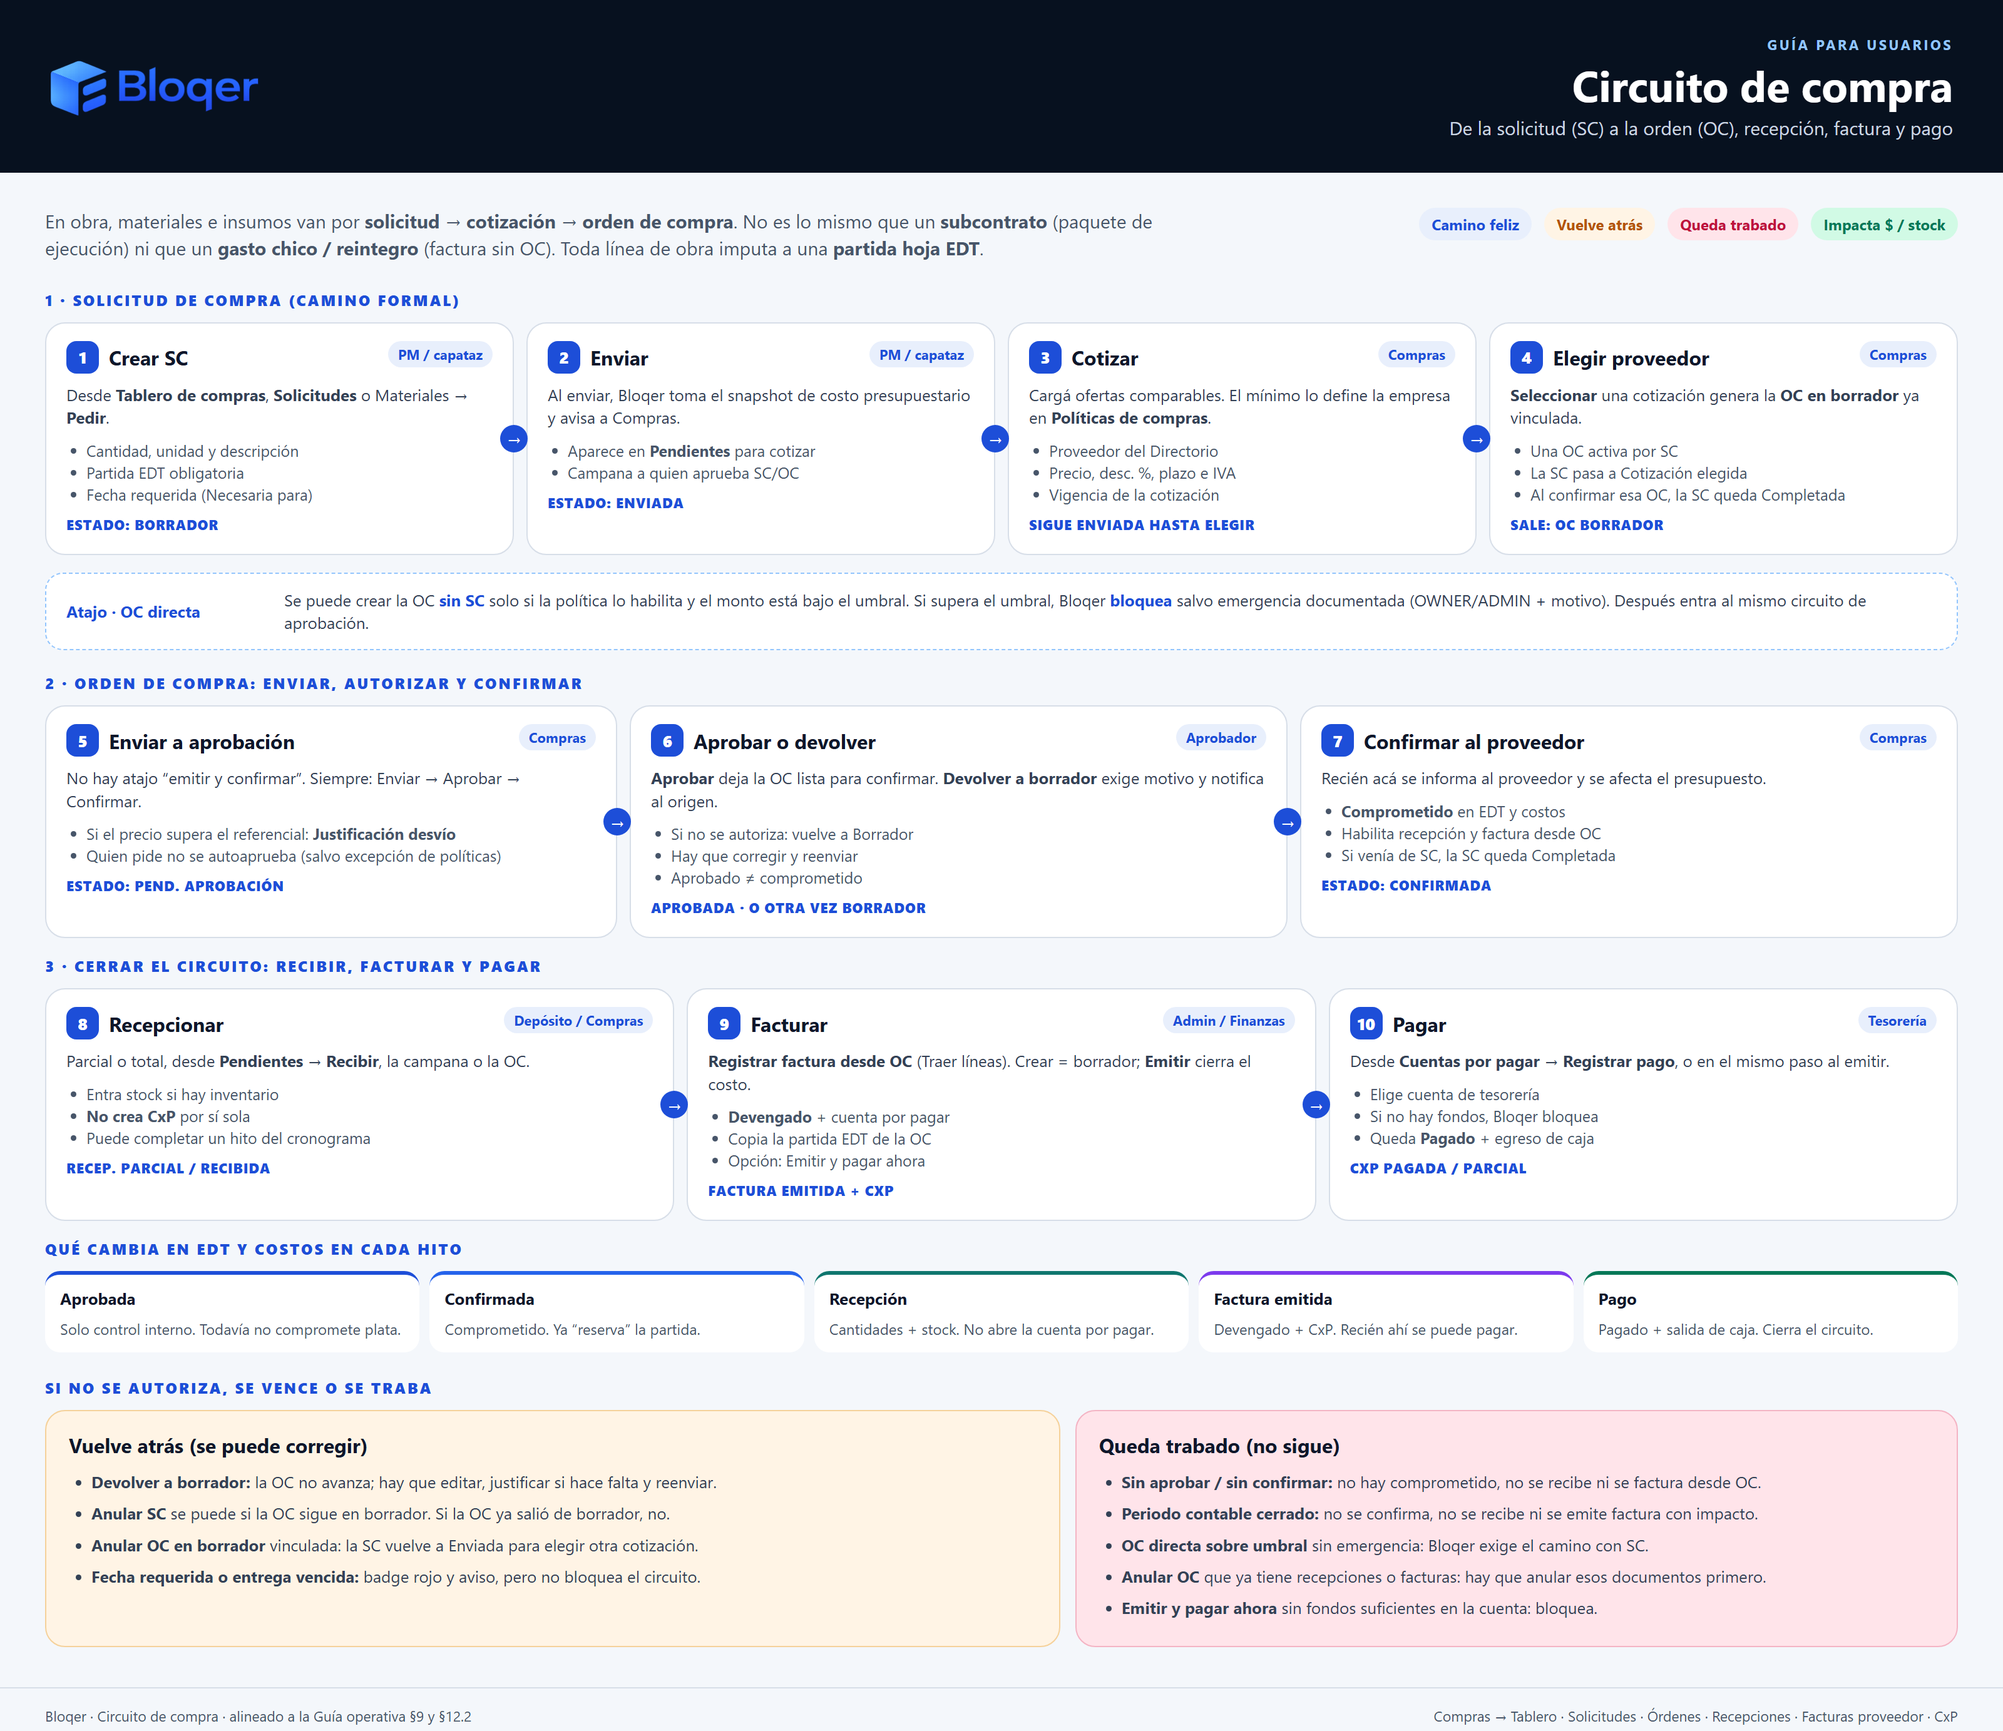
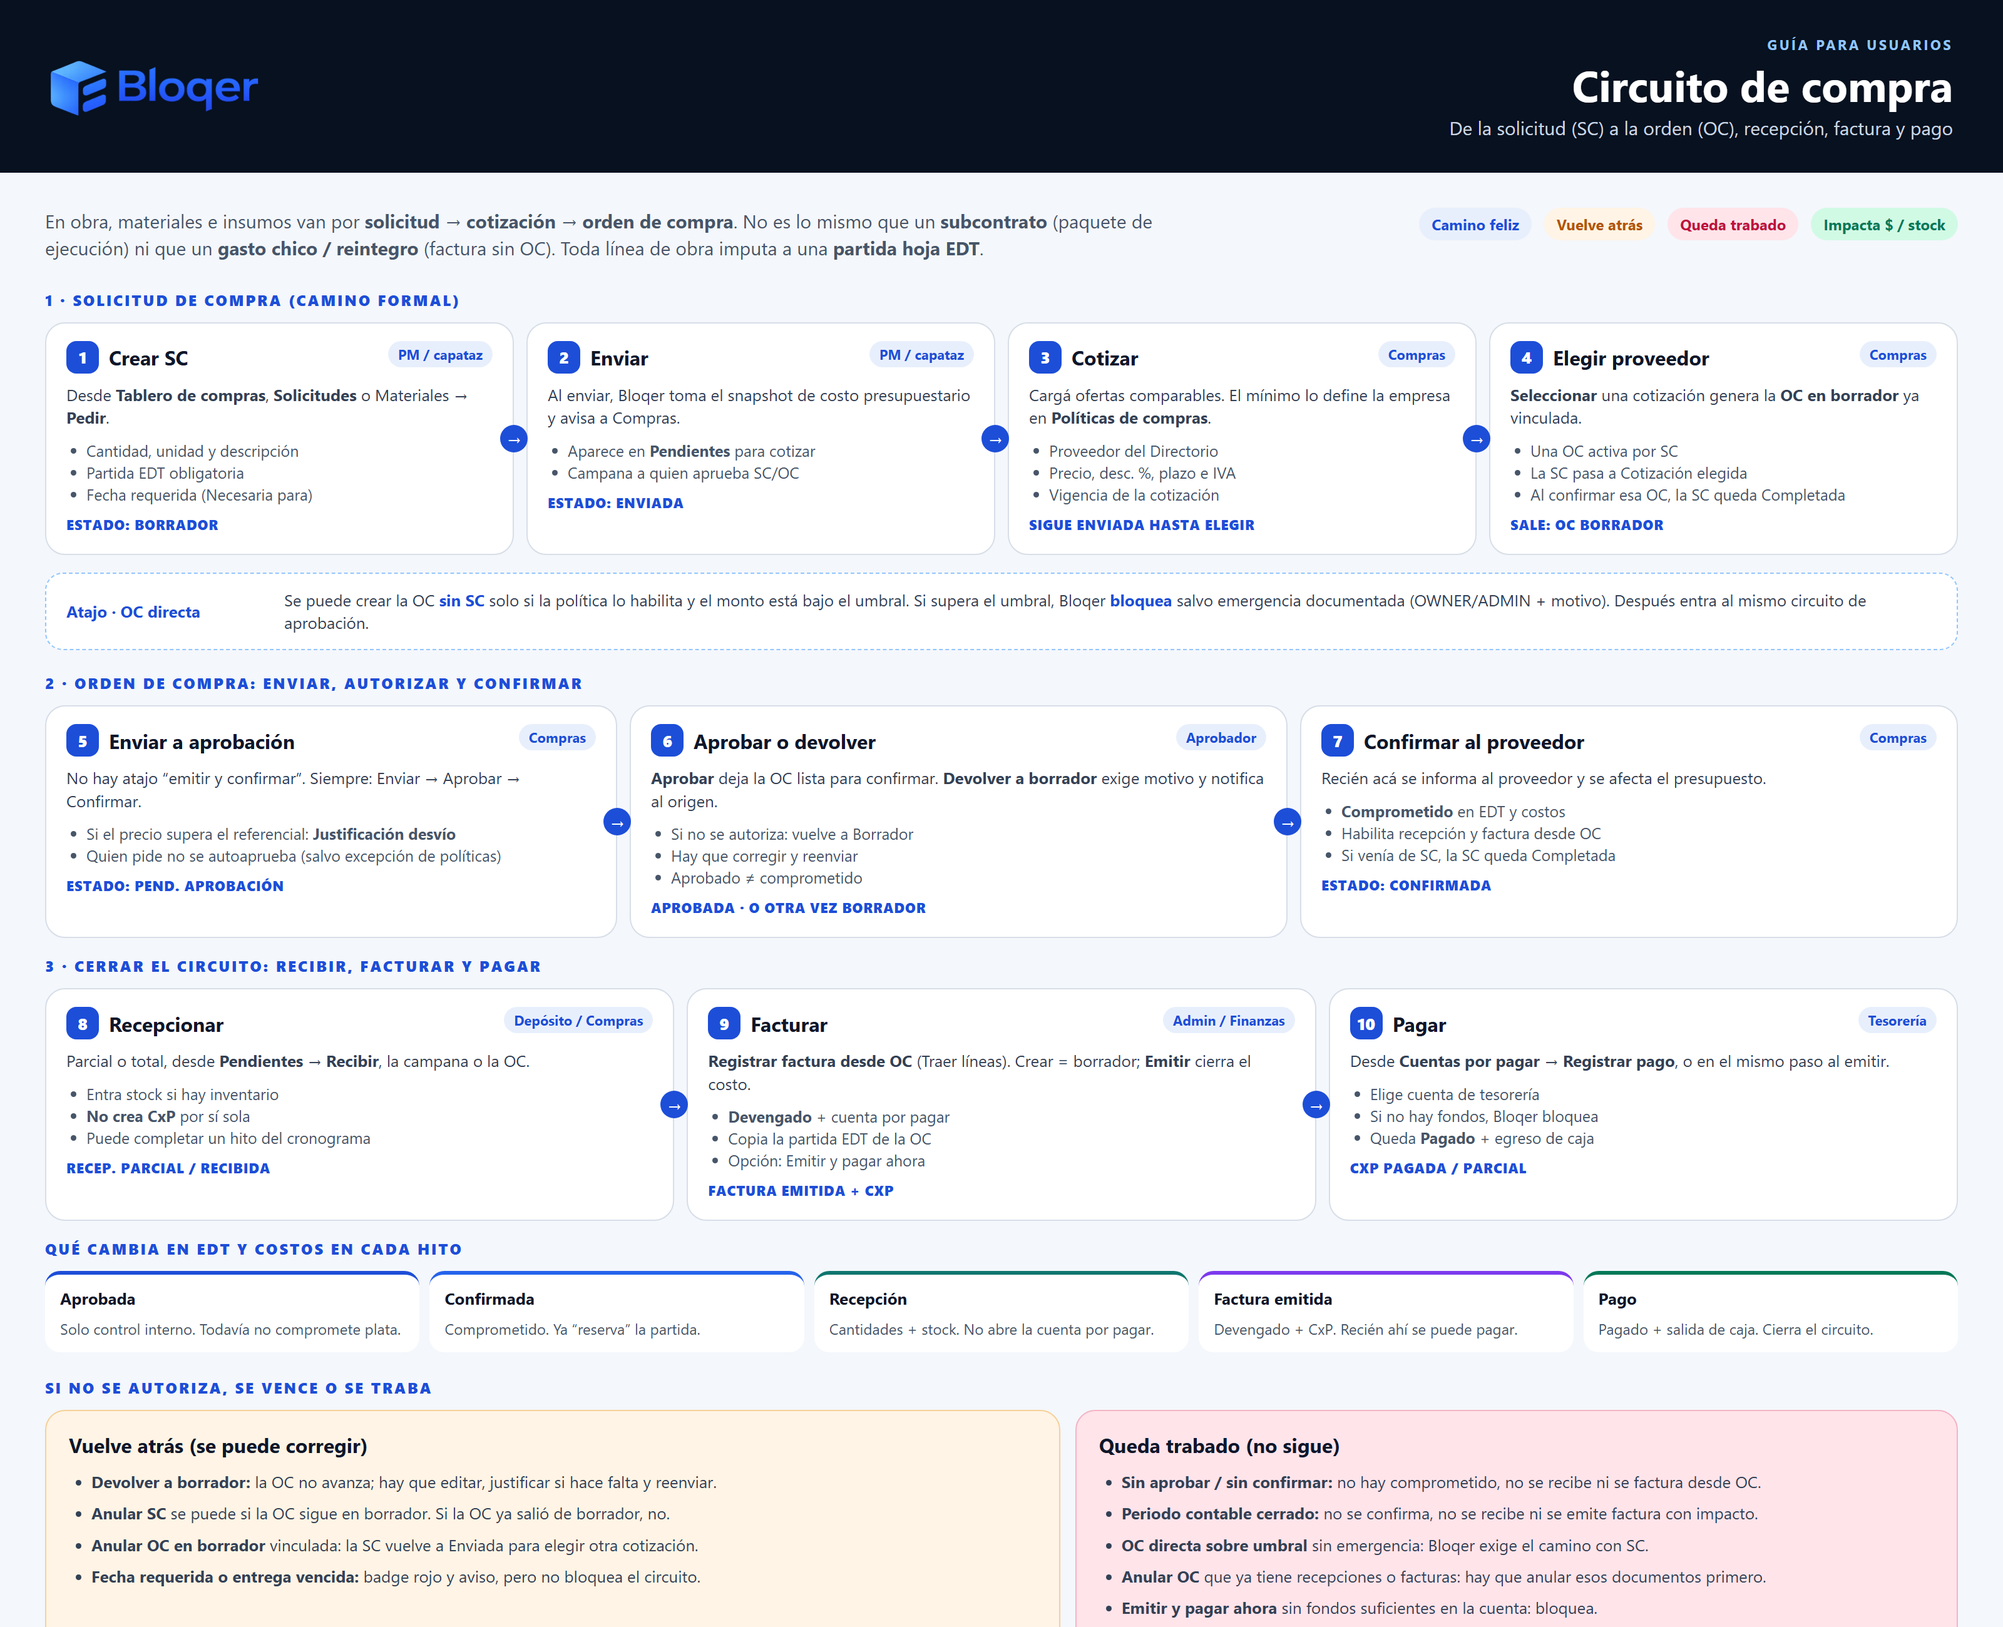
fix(nav): unifica OC y Subcontratos bajo Compras
Elimina la sección Compromisos del sidebar (taxonomía confusa); Comprometido queda como concepto de dinero. Actualiza guía, ayuda y láminas de procesos.

diff --git a/packages/services/src/project/project-workspace-nav.test.ts b/packages/services/src/project/project-workspace-nav.test.ts
@@ -16,29 +16,23 @@ test("project nav labels cost control as EDT y costos under Planificación", () 
   assert.equal(edt!.href, "/proyectos/proj-1/control-costos");
 });
 
-test("project nav Compras is abastecimiento: hub, SC and Recepciones (no OC)", () => {
+test("project nav Compras holds the full caminito: hub, SC, OC, Recepciones, Subcontratos", () => {
   const sections = buildProjectWorkspaceNavSections("proj-1", allOnGate, ["PROJECT_MANAGER"]);
   const compras = sections.find((s) => s.title === "Compras");
   assert.ok(compras);
-  assert.equal(
-    compras!.items.find((i) => i.label === "Tablero de compras")!.href,
-    "/proyectos/proj-1/compras",
-  );
-  assert.ok(compras!.items.some((i) => i.label === "Solicitudes de compra"));
-  assert.ok(compras!.items.some((i) => i.label === "Recepciones"));
-  assert.equal(compras!.items.some((i) => i.label === "Órdenes de compra"), false);
-});
-
-test("project nav Compromisos groups OC and Subcontratos as siblings", () => {
-  const sections = buildProjectWorkspaceNavSections("proj-1", allOnGate, ["PROJECT_MANAGER"]);
-  const compromisos = sections.find((s) => s.title === "Compromisos");
-  assert.ok(compromisos);
   assert.deepEqual(
-    compromisos!.items.map((i) => i.label),
-    ["Órdenes de compra", "Subcontratos"],
+    compras!.items.map((i) => i.label),
+    [
+      "Tablero de compras",
+      "Solicitudes de compra",
+      "Órdenes de compra",
+      "Recepciones",
+      "Subcontratos",
+    ],
   );
-  assert.equal(compromisos!.items[0]!.href, "/proyectos/proj-1/ordenes-compra");
-  assert.equal(compromisos!.items[1]!.href, "/proyectos/proj-1/subcontratos");
+  assert.equal(compras!.items.find((i) => i.label === "Órdenes de compra")!.href, "/proyectos/proj-1/ordenes-compra");
+  assert.equal(compras!.items.find((i) => i.label === "Subcontratos")!.href, "/proyectos/proj-1/subcontratos");
+  assert.equal(sections.some((s) => s.title === "Compromisos"), false);
 });
 
 test("project nav does not place Recepciones, SC, OC or Subcontratos under Finanzas", () => {
@@ -51,16 +45,16 @@ test("project nav does not place Recepciones, SC, OC or Subcontratos under Finan
   assert.equal(finanzas!.items.some((i) => i.label === "Subcontratos"), false);
 });
 
-test("project nav hides Compras when PROCUREMENT module is off", () => {
+test("project nav hides Compras when PROCUREMENT module is off (Subcontratos may remain alone)", () => {
   const gate: TenantModuleGate = {
     isEnabled: (m) => m !== "PROCUREMENT",
   };
   const sections = buildProjectWorkspaceNavSections("proj-1", gate, ["PROJECT_MANAGER"]);
-  assert.equal(sections.some((s) => s.title === "Compras"), false);
-  const compromisos = sections.find((s) => s.title === "Compromisos");
-  assert.ok(compromisos);
-  assert.equal(compromisos!.items.some((i) => i.label === "Órdenes de compra"), false);
-  assert.ok(compromisos!.items.some((i) => i.label === "Subcontratos"));
+  const compras = sections.find((s) => s.title === "Compras");
+  assert.ok(compras);
+  assert.equal(compras!.items.some((i) => i.label === "Órdenes de compra"), false);
+  assert.ok(compras!.items.some((i) => i.label === "Subcontratos"));
+  assert.equal(sections.some((s) => s.title === "Compromisos"), false);
 });
 
 test("project nav includes Materiales and Consumos under Operación", () => {

diff --git a/apps/web/features/help/lib/articles/planning-procurement.ts b/apps/web/features/help/lib/articles/planning-procurement.ts
@@ -328,7 +328,7 @@ export const PROCUREMENT_ARTICLES: HelpArticle[] = [
     modules: ["compras", "materiales", "finanzas"],
     level: "project",
     typicalRoles: ["Compras", "PM", "Finanzas"],
-    where: { menu: "Compras → Tablero / Compromisos → OC / Pendientes" },
+    where: { menu: "Compras → Tablero / OC / Recepciones · Pendientes" },
     hrefs: [
       { kind: "project", suffix: "/compras", label: "Tablero de compras" },
       { kind: "project", suffix: "/ordenes-compra", label: "Órdenes de compra" },
@@ -495,7 +495,7 @@ export const PROCUREMENT_ARTICLES: HelpArticle[] = [
     modules: ["compras", "presupuesto"],
     level: "project",
     typicalRoles: ["Compras", "PM", "OWNER / ADMIN"],
-    where: { menu: "Compromisos → Órdenes de compra" },
+    where: { menu: "Compras → Órdenes de compra" },
     hrefs: [{ kind: "project", suffix: "/ordenes-compra", label: "Órdenes de compra" }],
     steps: [
       "Nueva OC (dialog en escritorio; en celular `/ordenes-compra/nueva`) o desde SC seleccionada. Proveedor: buscá por razón social o nombre fantasía. Cada línea: partida hoja, **Tipo de costo** (Materiales / Mano de obra / Equipos / Subcontratos / Otros; **Sugerido desde APU**), unidad / cantidad / precio unitario / ref. presupuesto, y debajo Desc. % · IVA · total. Descuento general % + Aplicar a todas copia el mismo % (hay que ingresar un número; 0 limpia todas).",
@@ -573,13 +573,13 @@ export const PROCUREMENT_ARTICLES: HelpArticle[] = [
     modules: ["compras", "inventario"],
     level: "project",
     typicalRoles: ["Compras", "Depósito"],
-    where: { menu: "Compras → Recepciones (OC en Compromisos → Órdenes de compra)" },
+    where: { menu: "Compras → Recepciones (OC en Compras → Órdenes de compra)" },
     hrefs: [
       { kind: "project", suffix: "/recepciones", label: "Recepciones" },
       { kind: "project", suffix: "/ordenes-compra", label: "Órdenes de compra" },
     ],
     steps: [
-      "Desde Pendientes (botón Recibir → abre …/recepciones/nueva), desde la campana al confirmar (CTA Registrar recepción), desde la OC (Compromisos → Órdenes de compra) o Compras → Recepciones.",
+      "Desde Pendientes (botón Recibir → abre …/recepciones/nueva), desde la campana al confirmar (CTA Registrar recepción), desde la OC (Compras → Órdenes de compra) o Compras → Recepciones.",
       "Registrá recepción parcial o total. El depósito es opcional si Inventario está activo.",
       "Al confirmar la recepción, el panel Facturación queda arriba. Si la política «Al recibir, crear borrador» está ON, ya hay borrador para Completar y emitir (no crea CxP sola la recepción).",
     ],
@@ -666,7 +666,7 @@ export const PROCUREMENT_ARTICLES: HelpArticle[] = [
     modules: ["compras", "configuracion"],
     level: "project",
     typicalRoles: ["Compras", "OWNER / ADMIN"],
-    where: { menu: "Compromisos → Órdenes de compra / Configuración → Políticas" },
+    where: { menu: "Compras → Órdenes de compra / Configuración → Políticas" },
     hrefs: [
       { kind: "project", suffix: "/ordenes-compra", label: "Órdenes de compra" },
       { kind: "company", path: "/configuracion/politicas", label: "Políticas" },

diff --git a/packages/services/src/project/project-workspace-nav.ts b/packages/services/src/project/project-workspace-nav.ts
@@ -89,19 +89,13 @@ export function buildProjectWorkspaceNavSections(
     compras.push({ label: "Solicitudes de compra", href: `${base}/solicitudes-compra` });
   }
   if (gate.isEnabled("PROCUREMENT") && canViewProcurementProjectArea(roles)) {
+    compras.push({ label: "Órdenes de compra", href: `${base}/ordenes-compra` });
     compras.push({ label: "Recepciones", href: `${base}/recepciones` });
   }
-  if (compras.length) sections.push({ title: "Compras", items: compras });
-
-  // Visual "Compromisos" family: firm commitments (OC + Sub) without merging models.
-  const compromisos: ProjectWorkspaceNavLink[] = [];
-  if (gate.isEnabled("PROCUREMENT") && canViewProcurementProjectArea(roles)) {
-    compromisos.push({ label: "Órdenes de compra", href: `${base}/ordenes-compra` });
-  }
   if (gate.isEnabled("SUBCONTRACTS") && (can(roles, "VIEW", "SUBCONTRACTS") || can(roles, "VIEW", "PROJECTS"))) {
-    compromisos.push({ label: "Subcontratos", href: `${base}/subcontratos` });
+    compras.push({ label: "Subcontratos", href: `${base}/subcontratos` });
   }
-  if (compromisos.length) sections.push({ title: "Compromisos", items: compromisos });
+  if (compras.length) sections.push({ title: "Compras", items: compras });
 
   const finanzasProyecto: ProjectWorkspaceNavLink[] = [];
   if (canShowProjectFinanzasNavLink(gate, roles)) {

diff --git a/apps/web/features/help/lib/articles/finance.ts b/apps/web/features/help/lib/articles/finance.ts
@@ -9,11 +9,11 @@ export const SUBCONTRACT_AR_ARTICLES: HelpArticle[] = [
     modules: ["subcontratos"],
     level: "project",
     typicalRoles: ["PM", "Compras", "Administración"],
-    where: { menu: "Compromisos → Subcontratos" },
+    where: { menu: "Compras → Subcontratos" },
     hrefs: [{ kind: "project", suffix: "/subcontratos", label: "Subcontratos" }],
     steps: [
       "Prerrequisito: contacto con rol Subcontratista.",
-      "Compromisos → Subcontratos → Nuevo (buscá al subcontratista por razón social o nombre fantasía).",
+      "Compras → Subcontratos → Nuevo (buscá al subcontratista por razón social o nombre fantasía).",
       "Alcance e imputación a partidas (categoría SUB en APU cuando corresponda).",
     ],
     relatedSlugs: ["cargar-un-subcontratista", "certificar-y-pagar-subcontrato"],
@@ -28,7 +28,7 @@ export const SUBCONTRACT_AR_ARTICLES: HelpArticle[] = [
     modules: ["subcontratos", "finanzas"],
     level: "project",
     typicalRoles: ["PM", "Finanzas"],
-    where: { menu: "Compromisos → Subcontratos" },
+    where: { menu: "Compras → Subcontratos" },
     hrefs: [
       { kind: "project", suffix: "/subcontratos", label: "Subcontratos" },
       { kind: "project", suffix: "/facturas-proveedor", label: "Facturas proveedor" },

diff --git a/docs/bloqer2.0/guides/assets/laminas/mapa-subcontrato.html b/docs/bloqer2.0/guides/assets/laminas/mapa-subcontrato.html
@@ -1,4 +1,4 @@
-<!DOCTYPE html>
+<!DOCTYPE html>
 <html lang="es-AR">
 <head>
   <meta charset="utf-8" />
@@ -42,7 +42,7 @@
             <h3><span class="n">2</span>Crear subcontrato</h3>
             <span class="who">PM / Compras</span>
           </div>
-          <p>Finanzas del proyecto → Subcontratos → Nuevo.</p>
+          <p>Compras → Subcontratos → Nuevo.</p>
           <ul><li>Alcance e imputación a partidas</li><li>Categoría SUB en el APU cuando corresponda</li><li>No genera comprometido de OC</li></ul>
           <span class="state">Subcontrato activo</span>
         </article>
@@ -124,7 +124,7 @@
     </div>
     <footer>
       <span>Bloqer · Subcontrato hasta el pago · Guía operativa §10 · §12.2</span>
-      <span>Finanzas del proyecto → Subcontratos · Facturas proveedor · CxP</span>
+      <span>Compras → Subcontratos · Facturas proveedor · CxP</span>
     </footer>
   </div>
 </body>

diff --git a/apps/web/features/help/lib/articles/directory.ts b/apps/web/features/help/lib/articles/directory.ts
@@ -125,7 +125,7 @@ export const DIRECTORY_ARTICLES: HelpArticle[] = [
     steps: [
       "Abrí Directorio → + Nuevo contacto (?role=SUBCONTRACTOR).",
       "Marcá Subcontratista (podés sumar Proveedor si también vende materiales).",
-      "En la obra: Compromisos → Subcontratos → Nuevo subcontrato.",
+      "En la obra: Compras → Subcontratos → Nuevo subcontrato.",
     ],
     effects: ["Queda disponible al crear un Subcontrato (buscá por razón social o nombre fantasía)."],
     pitfalls: ["No pagues un paquete de obra con OC ni con gasto genérico: usá el flujo de subcontrato."],

diff --git a/apps/web/components/layout/project-workspace-sidebar.tsx b/apps/web/components/layout/project-workspace-sidebar.tsx
@@ -53,12 +53,8 @@ export function ProjectWorkspaceSidebar({
             activeWhenPathPrefix: item.activeWhenPathPrefix,
           }),
         );
-        // Keep active section open; default-open process hubs for discoverability.
         const defaultOpen =
-          s.title === "Resumen" ||
-          s.title === "Operación" ||
-          s.title === "Compras" ||
-          s.title === "Compromisos";
+          s.title === "Resumen" || s.title === "Operación" || s.title === "Compras";
         next[s.title] = hasActive ? true : (prev[s.title] ?? defaultOpen);
       }
       return next;

diff --git a/docs/bloqer2.0/guides/assets/laminas/mapa-circuito-compra-sc-oc.html b/docs/bloqer2.0/guides/assets/laminas/mapa-circuito-compra-sc-oc.html
@@ -483,7 +483,7 @@
 
     <footer>
       <span>Bloqer · Circuito de compra · alineado a la Guía operativa §9 y §12.2</span>
-      <span>Compras → Tablero · Solicitudes · Órdenes · Recepciones · Facturas proveedor · CxP</span>
+      <span>Compras → Tablero · Solicitudes · Órdenes · Recepciones · Subcontratos · Facturas proveedor · CxP</span>
     </footer>
   </div>
 </body>

diff --git a/docs/bloqer2.0/guides/assets/laminas/mapa-armar-cronograma.html b/docs/bloqer2.0/guides/assets/laminas/mapa-armar-cronograma.html
@@ -1,4 +1,4 @@
-<!DOCTYPE html>
+<!DOCTYPE html>
 <html lang="es-AR">
 <head>
   <meta charset="utf-8" />

diff --git a/docs/bloqer2.0/guides/assets/laminas/mapa-cargar-edt-apu.html b/docs/bloqer2.0/guides/assets/laminas/mapa-cargar-edt-apu.html
@@ -1,4 +1,4 @@
-<!DOCTYPE html>
+<!DOCTYPE html>
 <html lang="es-AR">
 <head>
   <meta charset="utf-8" />

diff --git a/docs/bloqer2.0/guides/assets/laminas/mapa-cerrar-el-mes.html b/docs/bloqer2.0/guides/assets/laminas/mapa-cerrar-el-mes.html
@@ -1,4 +1,4 @@
-<!DOCTYPE html>
+<!DOCTYPE html>
 <html lang="es-AR">
 <head>
   <meta charset="utf-8" />

diff --git a/docs/bloqer2.0/guides/assets/laminas/mapa-certificar-cobrar.html b/docs/bloqer2.0/guides/assets/laminas/mapa-certificar-cobrar.html
@@ -1,4 +1,4 @@
-<!DOCTYPE html>
+<!DOCTYPE html>
 <html lang="es-AR">
 <head>
   <meta charset="utf-8" />
